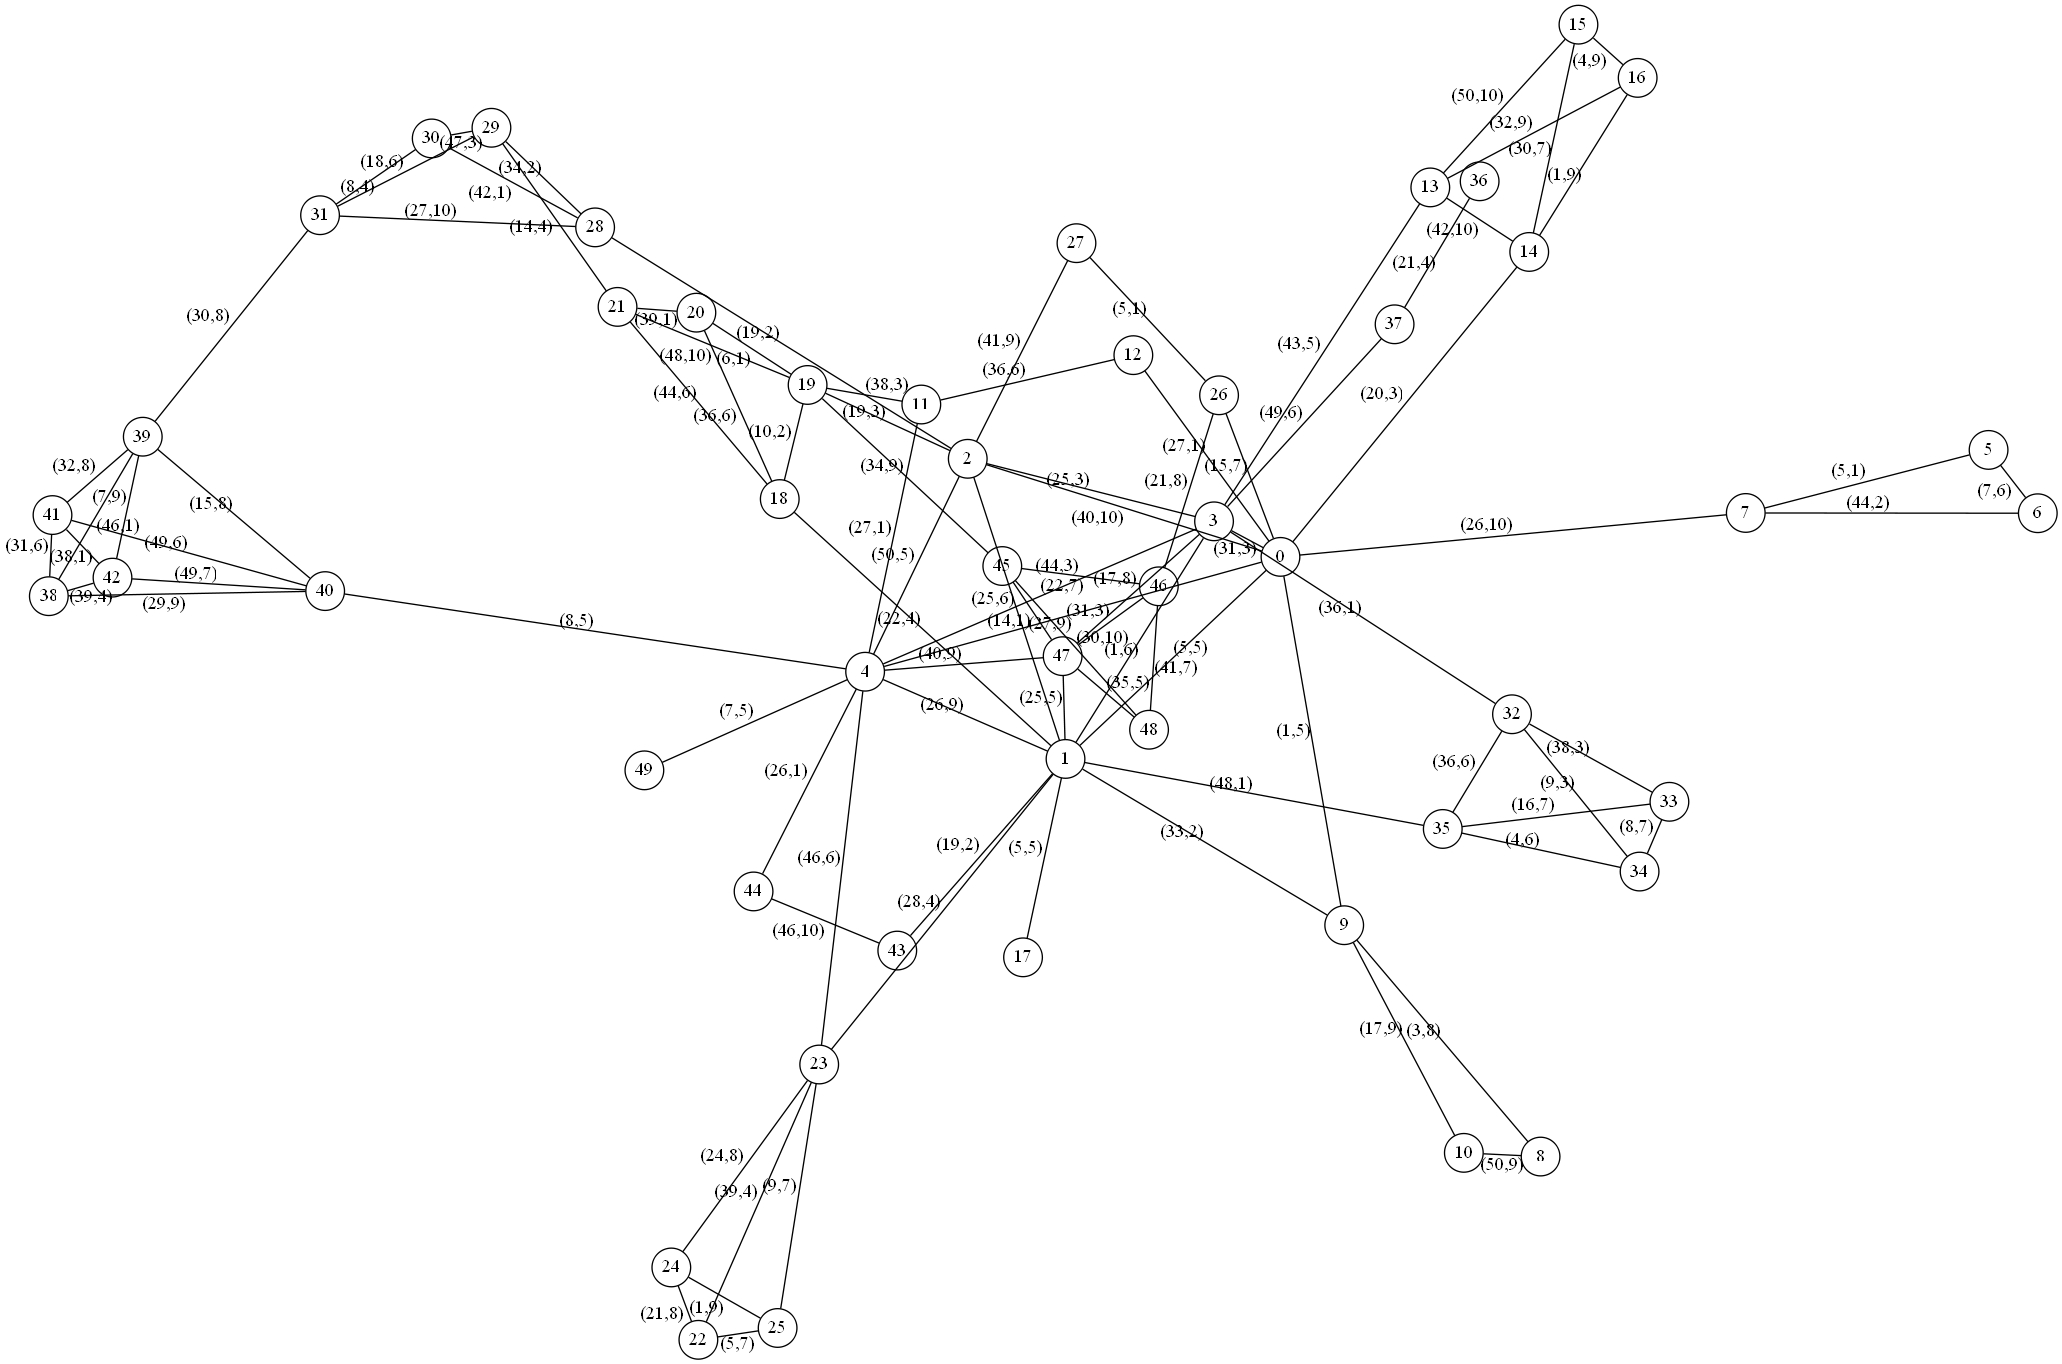
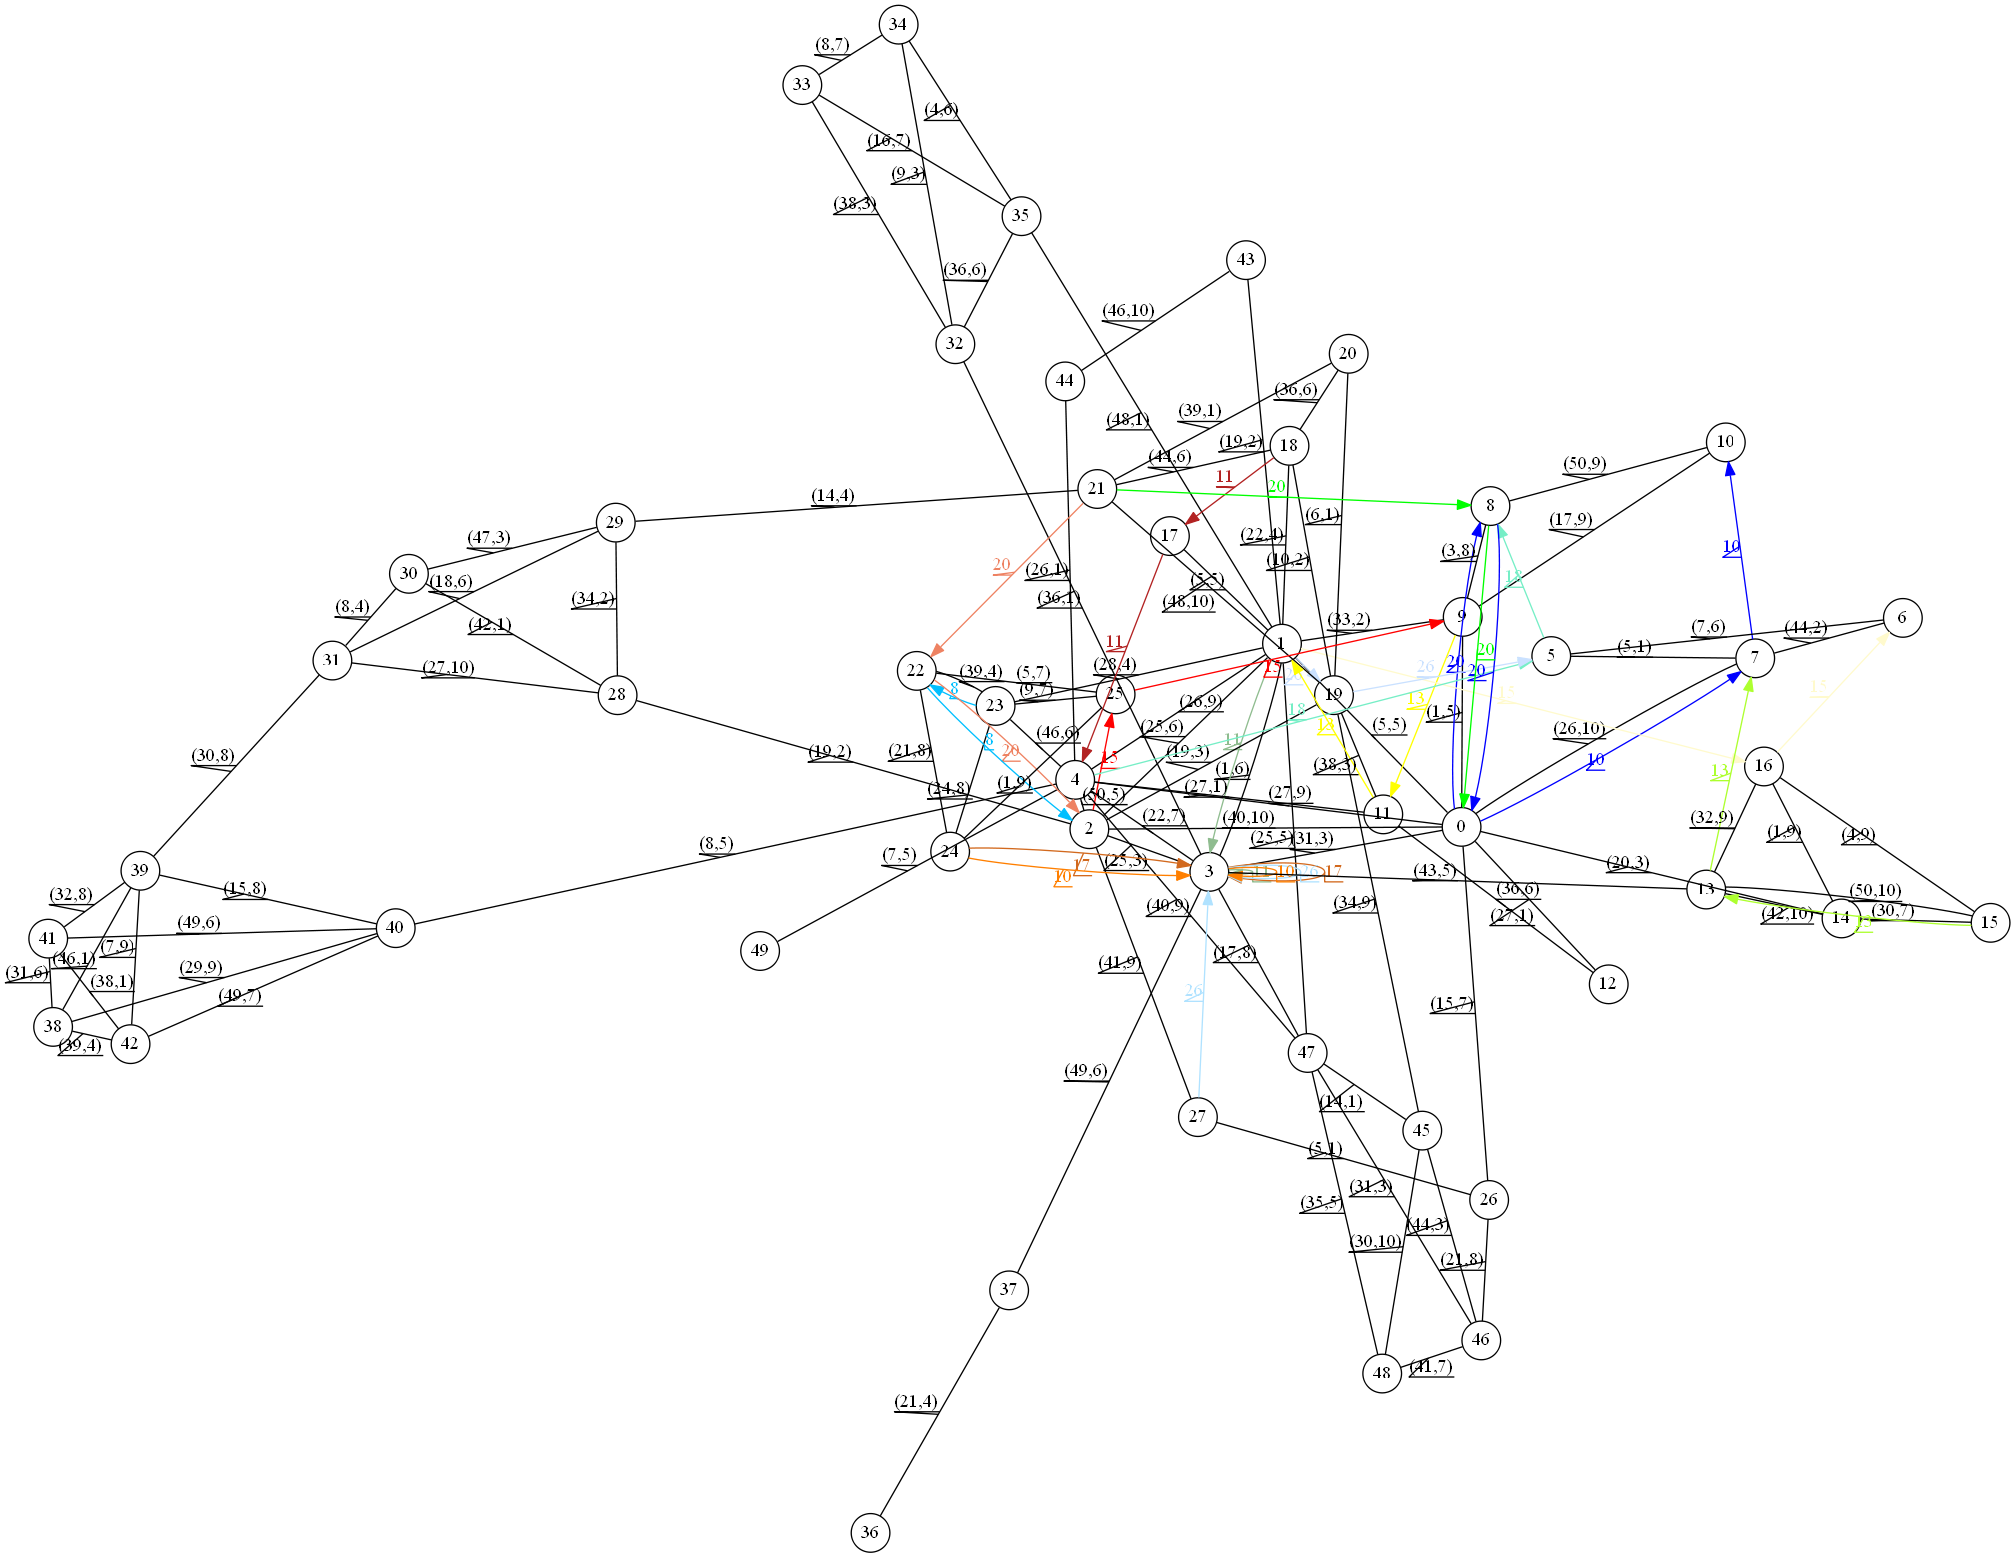
graphviz graph

diff --git a/ServerLayout/graphviz.cpp b/ServerLayout/graphviz.cpp
@@ -1,4 +1,4 @@
-//#include "graphviz.h"
+//#include "graphviz.h"
 #include <iostream>
 #include <fstream>
 #include <sstream>
@@ -15,6 +15,7 @@ void drawGraph(const Graph& g,std::vector<std::vector<int>> path)
 	gvf << "digraph G {\n";
 	//gvf << "size=\"10,10\"\n";
 	gvf << "node [shape=circle,fixedsize=true,width=0.4];\n";
+	gvf << "edge [decorate = true];\n";
 	Graph::vertex_iterator vertexIt, vertexEnd;
 	Graph:: adjacency_iterator neighbourIt, neighbourEnd;
 	boost::tie(vertexIt, vertexEnd) = vertices(g);
@@ -37,11 +38,11 @@ void drawGraph(const Graph& g,std::vector<std::vector<int>> path)
 	}
 
 	std::vector<std::string> color={"red", "blue", "green", "yellow", "salmon2", "deepskyblue", "darkseagreen", "chocolate", "lightskyblue1", "darkorange1", 
-		"darkorange1", "lightsteelblue1", "lemonchiffon", "greenyellow", "aquamarine2" }; //15
+		"firebrick", "lightsteelblue1", "lemonchiffon", "greenyellow", "aquamarine2" }; //15
 #define COLOR_LENGTH 15;
 
-//	int length = path[0][0];
-	int length = 0;
+	int length = path[0][0];
+	//int length = 0;
 	for (int i = 1; i < length; ++i)
 	{
 		int m = path[i].size();

diff --git a/ServerLayout/cdn.cpp b/ServerLayout/cdn.cpp
@@ -7,6 +7,7 @@
 
 #include "graphviz.h"
 
+
 int main(int argc, char *argv[])
 {
     print_time("Begin");
@@ -32,6 +33,7 @@ int main(int argc, char *argv[])
 
 	Solution so;
 	so.constructGraph(topo_file);
+
     print_time("End");
 
 	return 0;
